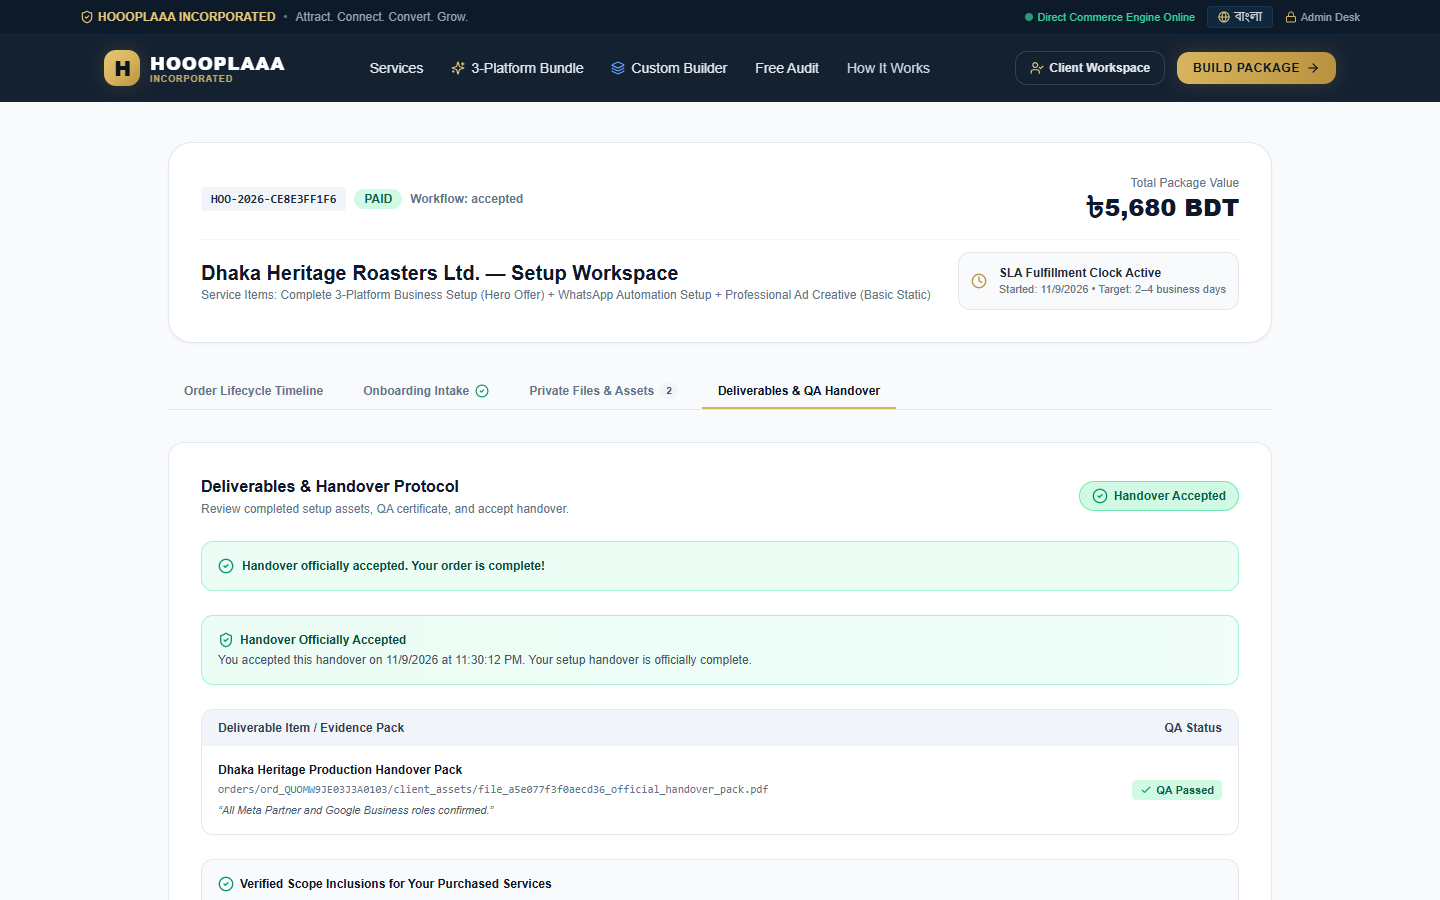
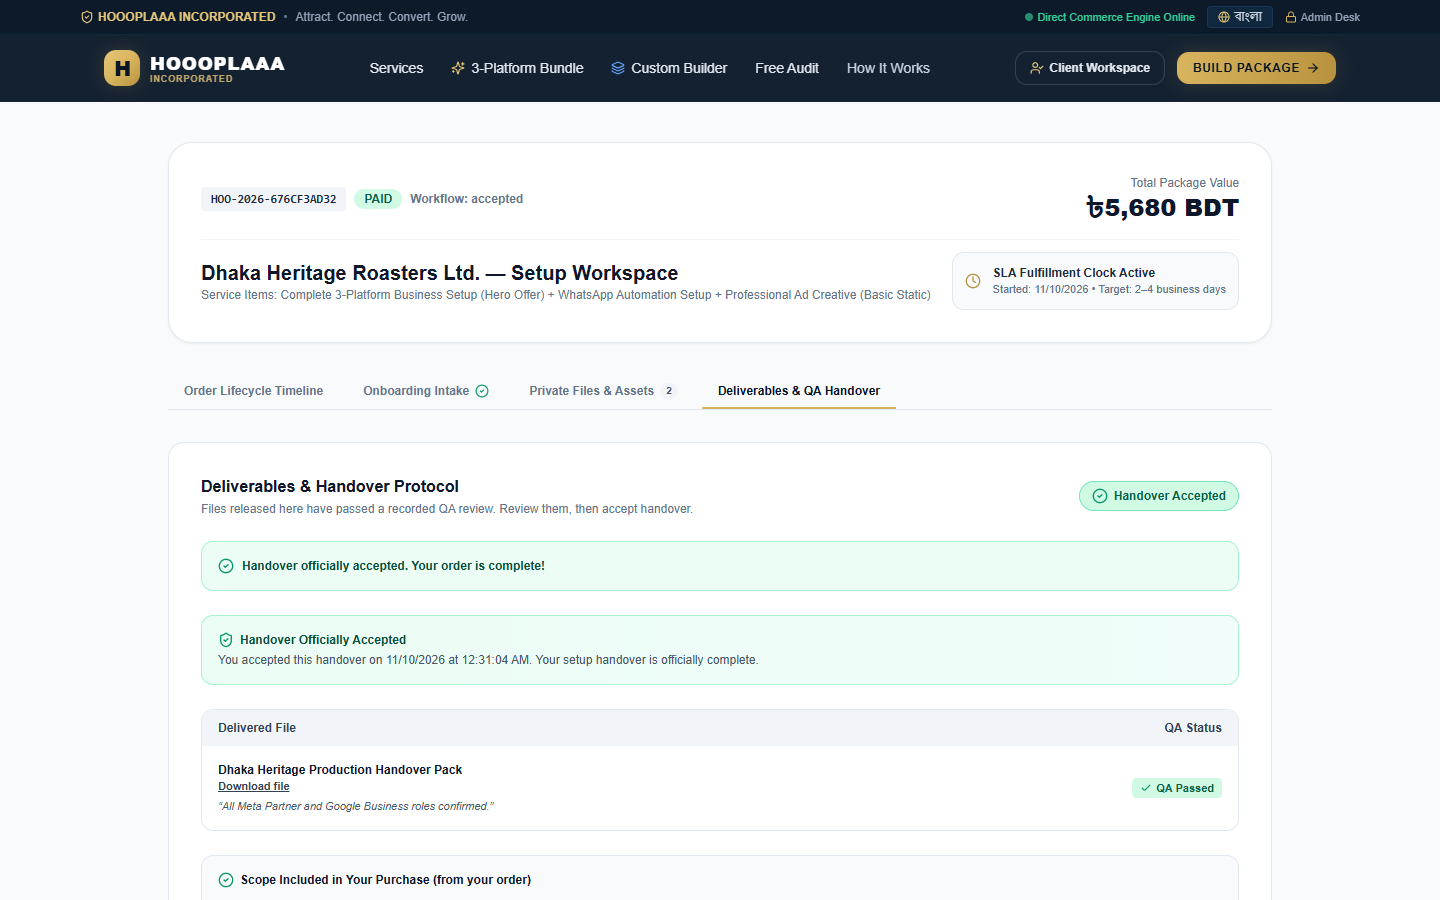
docs(v8.2): release integrity evidence and refreshed screenshots

diff --git a/docs/development/V8_2_RELEASE_INTEGRITY_EVIDENCE.md b/docs/development/V8_2_RELEASE_INTEGRITY_EVIDENCE.md
@@ -1,0 +1,61 @@
+# V8.2 — Release Integrity Evidence
+
+**Classification: `LOCAL_VERIFIED_REMOTE_BLOCKED`** — production launch NOT authorized.
+
+Branch `feature/platform-completion-and-hardening` (PR #7). Base commit `ac1bf70`.
+The attached master directive file (`HOOOPLAAA_V8_2_GEMINI_CLAUDE_CROSS_AGENT_RELEASE_INTEGRITY_PROMPT_2026-11-09.md`) was **not present** in the repository or the workstation; this work executes the six critical repairs and verification requirements stated in the V8.2 directive message. The "26 acceptance gates" list could not be read and is therefore not individually enumerated.
+
+All local results prove SQL/route logic on PGlite (real PostgreSQL 16 roles). They do **not** prove a deployed Supabase project.
+
+## Repairs
+
+| # | Defect | Fix | Where |
+|---|--------|-----|-------|
+| 1 | Delivery accepted any existing Storage path / any file | Delivery takes only a `deliverableFileId` looked up **within the order**; category must be `deliverable`; uploader must be admin/engineer; Storage bytes re-read and SHA-256 + size recomputed and compared. Raw `deliverablePath` is rejected. DB trigger `guard_order_file()` enforces category column, staff uploader for deliverables, `orders/<order>/<client_assets|deliverables>/` prefix, no `..`/control chars, private bucket, and immutability of binding/digest/category. | `src/app/api/admin/orders/route.ts`, migration `20261112000000_v8_2_release_integrity.sql` |
+| 2 | `qaChecklistPassed: true` request flag counted as QA approval | New table `order_qa_reviews` (reviewer id + role, decision, checklist JSON, notes, `clock_timestamp()`, file id, file SHA-256). Trigger `guard_qa_review()` re-checks ownership, deliverable category, digest, staff reviewer, order in `qa_review`, every checklist item true for approval. Immutable (service_role has no UPDATE/DELETE; anon/authenticated no access). Delivery requires `qaReviewId` of the **latest** review, approved, for that file, newer than any revision request. `order_deliverables` rows must bind file + approved review (trigger). Entering `delivered` is refused by the orders trigger without such a binding. | migration, `admin/orders` (`qa_review` action), `QaDeliveryPanel.tsx` |
+| 3 | Intake POST imported `rejectCrossOrigin` without calling it | Called first in intake, admin orders, finance verify, manual MFS, audit POST. Already present: quote, checkout initiate, files, accept, session POST/PATCH/DELETE. SSLCOMMERZ callback is deliberately exempt (server-to-server, carries no session, settlement only after S2S validation) — documented in the route. | routes listed |
+| 4 | `saveOrder()` unconditional upsert could overwrite newer state | `orders.row_version` + BEFORE UPDATE trigger `guard_order_transition()` (bumps version on every write incl. settlement RPC; legal transition table; no paid→unpaid; paid only with a `verified` payment_event; intake/SLA/acceptance one-way; SLA only when paid+intake; identity/total immutable; `delivered` needs approved QA binding). `saveOrder` = insert for new rows, compare-and-swap `UPDATE … WHERE row_version = $read` for existing rows → `OrderConcurrencyError` (HTTP 409). `transitionOrder()` re-reads and re-validates on conflict. Delivery is one RPC `deliver_order_with_qa_approval()` (row lock, version check, deliverable insert, order update, audit) — service_role EXECUTE only, `search_path` pinned. | `persistent-db.ts`, migration, all order-writing routes |
+| 5 | Download returned stored hash without recomputing | `readVerifiedFile()` recomputes SHA-256 (constant-time compare) and size on every download; missing → 410, corrupted/mismatched → 409 (+ `FILE_INTEGRITY_FAILURE` audit), oversized → 413. Upload: Content-Length / `File.size` checked before buffering (413), `upsert:false`, orphaned bytes removed if the metadata row is refused, safe storage names. SVG: must be a self-contained `<svg>` document; scripts, handlers, `javascript:`/`data:` (incl. `&#58;` encoding), foreignObject, entities/DOCTYPE, external href/CSS, `<style>` rejected. Downloads: `attachment` + RFC 5987 name, `nosniff`, `CSP: default-src 'none'; sandbox`, SVG served as `application/octet-stream`, `no-store`. | `files/route.ts`, `intake-and-files.ts`, `persistent-db.ts` |
+| 6 | Customer-facing accuracy | Intake email = signed-in account email for customers (UUID fallback removed client- and server-side). Generic "post-sale detailed audit report" and "evidence pack is ready" removed; audit mention shown only when the purchased scope lists it. Customers see only delivered deliverable files; internal storage paths no longer returned or rendered. "7-day price guarantee" → "7-day quote validity period". Catalog (seven approved products, poisha prices) unchanged. | dashboard order page, `how-it-works`, deliverables/files routes |
+| — | Incidental | `BUSINESS_HOLIDAYS` regex was `/^d{4}-d{2}-d{2}$/` (never matched); fixed. Admin UI no longer sends a fake `specialistId`. | `order-service.ts`, `admin/page.tsx` |
+
+## Regression tests (new: `tests/v8-2-release-integrity.test.ts`, 37 tests)
+
+Ownership 1.1–1.6 · persisted QA 2.1–2.7 · CSRF 3.1 (11 endpoints × Origin and Sec-Fetch-Site) and 3.2 · atomic transitions 4.1–4.8 (stale writer, missing version, settlement race, DB regression guards, accepted immutability, version bump by settlement RPC, concurrent acceptance, stale delivery rollback) · file integrity 5.1–5.8 (multipart round-trip of original bytes, corruption, same-size substitution, missing object, oversize, SVG, category paths, pre-delivery visibility) · customer accuracy 6.1–6.3 · holiday parsing · PostgREST denial.
+
+Pre-existing tests that encoded the removed weak behaviour (delivery by flag, direct `saveDeliverable`, marking paid without settlement, jumping status by assignment) were ported to the real chain via `tests/helpers/delivery-fixtures.ts`.
+
+## Verification (after the final source change)
+
+Run sequentially on Windows 11, Node 22.14.0, local PGlite harness, after the last source change:
+
+| Command | Exit | Result |
+|---------|------|--------|
+| `npm ci` | 0 | 429 packages added (npm audit reports 12 advisories: 8 moderate, 2 high, 2 critical — pre-existing, not addressed here) |
+| `npm run typecheck` | 0 | no errors |
+| `npm run lint` | 0 | no ESLint warnings or errors |
+| `npm test` | 0 | 16 files, **166 / 166 tests passed** (37 new V8.2) |
+| `npm run build` | 0 | production build succeeded |
+| `npm run test:e2e` | 0 | Playwright **4 / 4 passed** (includes: delivery by flag alone → 422; persisted QA review → delivery → customer acceptance) |
+
+## Cloud gates
+
+| Gate | Status | Evidence |
+|------|--------|----------|
+| Isolated Supabase staging project | **BLOCKED** | `supabase projects list` (read-only, 2026-11-10) shows only `NotRealEngine` and `Hoooplaaa` (`aqmyqezuoscpgqwtvblu`, production-connected). Free-plan limit prevents a third project. Nothing was created. |
+| V8.2 migration on staging | **BLOCKED** | no isolated project; NOT applied to `aqmyqezuoscpgqwtvblu` (directive forbids it) |
+| Real-cloud registration / email | **BLOCKED** | no staging project; SMTP not configured |
+| SSLCOMMERZ sandbox checkout | **BLOCKED** | no sandbox merchant credentials |
+| Real-cloud QA / delivery / acceptance | **BLOCKED** | depends on staging project |
+| Live merchant payments / Production changes | **NOT DONE** (by design) | owner approval required |
+
+## Exact remaining owner actions
+
+1. Provide an isolated staging Supabase project (upgrade plan, or pause/delete a project of your choice, or create one in the dashboard) and share its ref. Do not reuse `aqmyqezuoscpgqwtvblu`.
+2. Point Vercel **Preview** `SUPABASE_URL` / keys / `POSTGRES_*` at that staging project (Production untouched); keep `SUPABASE_TEST_BRIDGE` off.
+3. Apply all five migrations to staging (including `20261112000000_v8_2_release_integrity.sql`), create the private `order-assets` bucket, then run `scripts/staging/*` and the cloud negative tests.
+4. Provide SSLCOMMERZ **sandbox** store id/password for Preview; configure SMTP for staging Auth email.
+5. Confirm the business calendar (weekend days, holiday list) — policy remains `PROVISIONAL_UNAPPROVED`.
+6. Decide whether QA approval must be four-eyes (reviewer ≠ uploader). Currently any admin/engineer may review; the reviewer identity is recorded.
+7. Before applying the V8.2 migration to any database that already has orders: existing `order_deliverables` rows have no file/review binding and will not satisfy the new acceptance checks; legacy order rows start at `row_version = 0`.
+8. Clean the synthetic fixtures still in `aqmyqezuoscpgqwtvblu` (see `V7_2R_CLAUDE_RELEASE_EVIDENCE.md`) before any real use.
